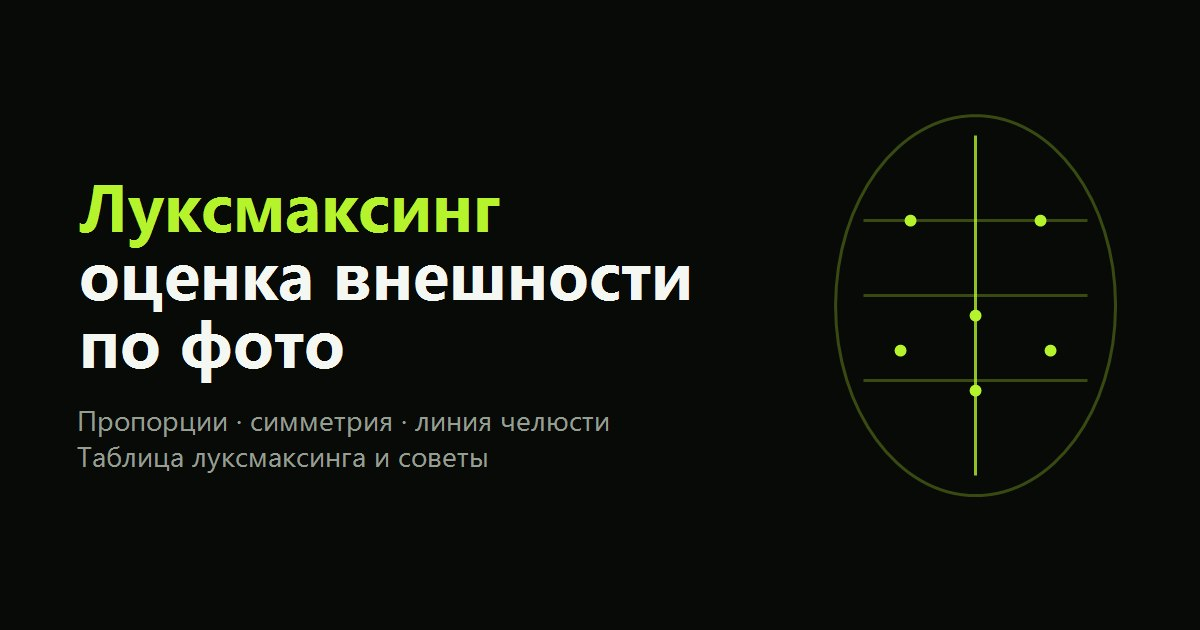
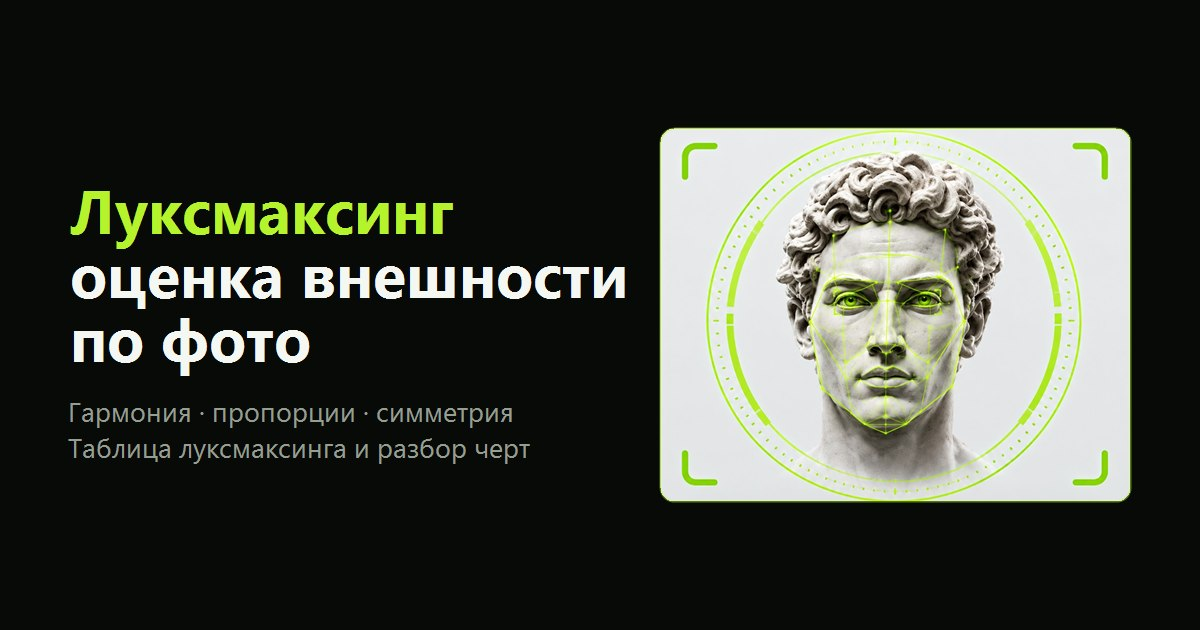
Персонаж в разборе и новая ссылка на бота
- античный бюст с сеткой вместо SVG-силуэта в демо-разборе
- удалены CSS-скобки, кольца и генератор сетки: они есть в картинке
- луч едет по top в процентах, картинка расцветает после скана
- OG-картинка пересобрана на том же персонаже
- CTA переведены на @LooksmaxScoreBot

Changed region(s): [[0.0617, 0.181, 0.9558, 0.8143], [0.0617, 0.2714, 0.4317, 0.3921]]

diff --git a/index.html b/index.html
@@ -23,7 +23,7 @@
 <link rel="preconnect" href="https://fonts.googleapis.com">
 <link rel="preconnect" href="https://fonts.gstatic.com" crossorigin>
 <link rel="stylesheet" href="https://fonts.googleapis.com/css2?family=IBM+Plex+Mono:wght@500;600&family=Manrope:wght@400;500;600;700;800&display=swap">
-<link rel="stylesheet" href="style.css?v=477428ff">
+<link rel="stylesheet" href="style.css?v=a276a9f6">
 <script src="app.js?v=7daabf76" defer></script>
 </head>
 <body>
@@ -42,7 +42,7 @@
       <a href="#plan">Что в разборе</a>
     </nav>
 
-    <a class="btn btn--lime btn--sm nav__cta" data-cta href="https://t.me/LooksTestBot" target="_blank" rel="sponsored noopener">Пройти оценку</a>
+    <a class="btn btn--lime btn--sm nav__cta" data-cta href="https://t.me/LooksmaxScoreBot" target="_blank" rel="sponsored noopener">Пройти оценку</a>
   </div>
   <p class="nav__caption">LooksTest — оценка внешности по фото от Vitrio</p>
 </header>
@@ -58,10 +58,10 @@
           Загрузите фото — и получите AI-скор с разбором по трём показателям: гармония лица,
           пропорции и симметрия. Плюс персональный план, что улучшить первым и какой шаг
           даст заметный результат быстрее всего.
-          <a data-cta href="https://t.me/LooksTestBot" target="_blank" rel="sponsored noopener">Попробуйте</a> — это занимает минуту.
+          <a data-cta href="https://t.me/LooksmaxScoreBot" target="_blank" rel="sponsored noopener">Попробуйте</a> — это занимает минуту.
         </p>
         <div class="hero__actions">
-          <a class="btn btn--lime" data-cta href="https://t.me/LooksTestBot" target="_blank" rel="sponsored noopener">Пройти оценку в Telegram</a>
+          <a class="btn btn--lime" data-cta href="https://t.me/LooksmaxScoreBot" target="_blank" rel="sponsored noopener">Пройти оценку в Telegram</a>
           <a class="btn btn--ghost" href="#tiers">Таблица луксмаксинга</a>
         </div>
       </div>
@@ -75,36 +75,14 @@
         <div class="scan" id="heroScan">
           <div class="scan__frame">
             <div class="scan__stage">
-              <span class="scan__corner" aria-hidden="true"></span>
-              <span class="scan__corner" aria-hidden="true"></span>
-              <span class="scan__corner" aria-hidden="true"></span>
-              <span class="scan__corner" aria-hidden="true"></span>
-
+              <!-- Персонаж и вся оптика — скобки, кольцо, сетка на лице —
+                   в самой картинке. CSS рисует только луч поверх неё. -->
+              <img class="scan__shot" src="img/scan-statue.jpg"
+                   alt="Разбор внешности: точки и сетка на лице античной статуи"
+                   width="900" height="715" fetchpriority="high" decoding="async">
+              <span class="scan__beam" aria-hidden="true"></span>
               <span class="scan__side scan__side--l" aria-hidden="true">Анализ черт лица</span>
               <span class="scan__side scan__side--r" aria-hidden="true">Сканирование пропорций</span>
-
-              <svg class="scan__rings" viewBox="0 0 200 200" aria-hidden="true">
-                <circle cx="100" cy="100" r="86"/>
-                <circle cx="100" cy="100" r="70"/>
-                <path d="M100 8v12M100 180v12M8 100h12M180 100h12"/>
-              </svg>
-
-              <span class="scan__face">
-              <svg viewBox="0 0 200 200" aria-hidden="true">
-                <path class="scan__outline" d="M100 26c26 0 44 19 44 46 0 13-2 25-6 36-6 17-20 34-38 34s-32-17-38-34c-4-11-6-23-6-36 0-27 18-46 44-46z"/>
-                <!-- Полигональная сетка: 61 точка-ориентир, триангуляция Боуэра-Ватсона,
-                     треугольники вне овала лица отброшены. Сгенерирована скриптом,
-                     руками такое не набрать. -->
-                <path class="scan__grid" d="M54.7 89.2L56 110.8M54.7 89.2L60.2 69M54.7 89.2L69.4 104.2M54.7 89.2L70.6 85.5M56 110.8L63.3 131M56 110.8L69.4 104.2M56 110.8L70 112M60.2 69L70.4 52.5M60.2 69L70.6 85.5M60.2 69L78.2 69.8M63.3 131L70 112M63.3 131L74.1 147.5M63.3 131L75.5 121.9M63.3 131L85.3 135.4M69.4 104.2L70 112M69.4 104.2L70.6 85.5M69.4 104.2L78 88M69.4 104.2L82 97M69.4 104.2L85.2 104.4M70 112L75.5 121.9M70 112L85.2 104.4M70.4 52.5L78.2 69.8M70.4 52.5L84.3 41.7M70.4 52.5L90.1 60M70.6 85.5L78 88M70.6 85.5L78.2 69.8M74.1 147.5L85.3 135.4M74.1 147.5L86.6 158.3M74.1 147.5L88 136M75.5 121.9L85.2 104.4M75.5 121.9L85.3 135.4M75.5 121.9L91.6 116.6M75.5 121.9L92 122M78 88L78.2 69.8M78 88L82 97M78 88L86.2 90.1M78 88L92 86M78 88L94.1 80.5M78.2 69.8L90.1 60M78.2 69.8L94.1 80.5M82 97L85.2 104.4M82 97L86.2 90.1M82 97L95 97M84.3 41.7L90.1 60M84.3 41.7L100 38M85.2 104.4L91.6 116.6M85.2 104.4L95 97M85.2 104.4L100 108M85.3 135.4L88 136M85.3 135.4L92 122M86.2 90.1L92 86M86.2 90.1L95 97M86.6 158.3L88 136M86.6 158.3L96.7 141.8M86.6 158.3L100 155M86.6 158.3L100 162M88 136L92 122M88 136L96.7 141.8M88 136L100 134M90.1 60L94.1 80.5M90.1 60L100 38M90.1 60L103.9 58.2M91.6 116.6L92 122M91.6 116.6L100 108M91.6 116.6L100 120M92 86L94.1 80.5M92 86L95 97M92 86L100 92M92 122L100 120M92 122L100 134M92 122L100.5 121.1M94.1 80.5L100 92M94.1 80.5L103.9 58.2M94.1 80.5L104.8 80M95 97L100 92M95 97L100 108M95 97L105 97M96.7 141.8L100 134M96.7 141.8L100 142M96.7 141.8L100 155M100 38L103.9 58.2M100 38L115.7 41.7M100 92L104.8 80M100 92L105 97M100 92L108 86M100 108L100 120M100 108L105 97M100 108L109.2 115.7M100 108L115.1 102.9M100 120L100.5 121.1M100 120L108 122M100 120L109.2 115.7M100 134L100 142M100 134L100.5 121.1M100 134L108 122M100 134L108.4 140M100 134L112 136M100 142L100 155M100 142L108.4 140M100 155L100 162M100 155L108.4 140M100 155L113.4 158.3M100 162L113.4 158.3M100.5 121.1L108 122M103.9 58.2L104.8 80M103.9 58.2L115.7 41.7M103.9 58.2L117 64.6M104.8 80L108 86M104.8 80L113.3 88.8M104.8 80L117 64.6M104.8 80L126.7 78.1M105 97L108 86M105 97L113.3 88.8M105 97L115.1 102.9M105 97L118 97M108 86L113.3 88.8M108 122L109.2 115.7M108 122L112 136M108 122L119.3 130.2M108.4 140L112 136M108.4 140L113.4 158.3M108.4 140L125.9 147.5M109.2 115.7L115.1 102.9M109.2 115.7L119.3 130.2M109.2 115.7L127.8 114.5M112 136L119.3 130.2M112 136L125.9 147.5M113.3 88.8L118 97M113.3 88.8L122 88M113.3 88.8L126.7 78.1M113.4 158.3L125.9 147.5M115.1 102.9L118 97M115.1 102.9L127.8 114.5M115.1 102.9L130 112M115.7 41.7L117 64.6M115.7 41.7L129.6 52.5M117 64.6L126.7 78.1M117 64.6L129.6 52.5M117 64.6L139.8 69M118 97L122 88M118 97L130 112M118 97L131.1 95.8M119.3 130.2L125.9 147.5M119.3 130.2L127.8 114.5M119.3 130.2L136.7 131M122 88L126.7 78.1M122 88L131.1 95.8M125.9 147.5L136.7 131M126.7 78.1L131.1 95.8M126.7 78.1L139.8 69M126.7 78.1L145.3 89.2M127.8 114.5L130 112M127.8 114.5L136.7 131M129.6 52.5L139.8 69M130 112L131.1 95.8M130 112L136.7 131M130 112L144 110.8M131.1 95.8L144 110.8M131.1 95.8L145.3 89.2M136.7 131L144 110.8M139.8 69L145.3 89.2M144 110.8L145.3 89.2"/>
-                <g class="scan__mesh">
-                  <path d="M100 30v132M62 78h76M60 100h80M66 122h68"/>
-                  <path d="M76 88c6-6 16-6 22 0M102 88c6-6 16-6 22 0"/>
-                  <path d="M84 134c10 6 22 6 32 0"/>
-                </g>
-                <g class="scan__dot"><circle cx="100" cy="38" r="1.7"/><circle cx="115.7" cy="41.7" r="1.7"/><circle cx="129.6" cy="52.5" r="1.7"/><circle cx="139.8" cy="69" r="1.7"/><circle cx="145.3" cy="89.2" r="1.7"/><circle cx="144" cy="110.8" r="1.7"/><circle cx="136.7" cy="131" r="1.7"/><circle cx="125.9" cy="147.5" r="1.7"/><circle cx="113.4" cy="158.3" r="1.7"/><circle cx="100" cy="162" r="1.7"/><circle cx="86.6" cy="158.3" r="1.7"/><circle cx="74.1" cy="147.5" r="1.7"/><circle cx="63.3" cy="131" r="1.7"/><circle cx="56" cy="110.8" r="1.7"/><circle cx="54.7" cy="89.2" r="1.7"/><circle cx="60.2" cy="69" r="1.7"/><circle cx="70.4" cy="52.5" r="1.7"/><circle cx="84.3" cy="41.7" r="1.7"/><circle cx="103.9" cy="58.2" r="1.7"/><circle cx="117" cy="64.6" r="1.7"/><circle cx="126.7" cy="78.1" r="1.7"/><circle cx="131.1" cy="95.8" r="1.7"/><circle cx="127.8" cy="114.5" r="1.7"/><circle cx="119.3" cy="130.2" r="1.7"/><circle cx="108.4" cy="140" r="1.7"/><circle cx="96.7" cy="141.8" r="1.7"/><circle cx="85.3" cy="135.4" r="1.7"/><circle cx="75.5" cy="121.9" r="1.7"/><circle cx="69.4" cy="104.2" r="1.7"/><circle cx="70.6" cy="85.5" r="1.7"/><circle cx="78.2" cy="69.8" r="1.7"/><circle cx="90.1" cy="60" r="1.7"/><circle cx="104.8" cy="80" r="1.7"/><circle cx="113.3" cy="88.8" r="1.7"/><circle cx="115.1" cy="102.9" r="1.7"/><circle cx="109.2" cy="115.7" r="1.7"/><circle cx="100.5" cy="121.1" r="1.7"/><circle cx="91.6" cy="116.6" r="1.7"/><circle cx="85.2" cy="104.4" r="1.7"/><circle cx="86.2" cy="90.1" r="1.7"/><circle cx="94.1" cy="80.5" r="1.7"/><circle cx="78" cy="88" r="1.7"/><circle cx="92" cy="86" r="1.7"/><circle cx="108" cy="86" r="1.7"/><circle cx="122" cy="88" r="1.7"/><circle cx="82" cy="97" r="1.7"/><circle cx="95" cy="97" r="1.7"/><circle cx="105" cy="97" r="1.7"/><circle cx="118" cy="97" r="1.7"/><circle cx="100" cy="92" r="1.7"/><circle cx="100" cy="108" r="1.7"/><circle cx="100" cy="120" r="1.7"/><circle cx="92" cy="122" r="1.7"/><circle cx="108" cy="122" r="1.7"/><circle cx="88" cy="136" r="1.7"/><circle cx="100" cy="134" r="1.7"/><circle cx="112" cy="136" r="1.7"/><circle cx="100" cy="142" r="1.7"/><circle cx="70" cy="112" r="1.7"/><circle cx="130" cy="112" r="1.7"/><circle cx="100" cy="155" r="1.7"/></g>
-              </svg>
-                <span class="scan__beam" aria-hidden="true"></span>
-              </span>
             </div>
 
             <div class="scan__head">
@@ -192,7 +170,7 @@
       </ol>
 
       <div class="why__cta">
-        <a class="btn btn--lime" data-cta href="https://t.me/LooksTestBot" target="_blank" rel="sponsored noopener">Пройти оценку в Telegram</a>
+        <a class="btn btn--lime" data-cta href="https://t.me/LooksmaxScoreBot" target="_blank" rel="sponsored noopener">Пройти оценку в Telegram</a>
       </div>
     </div>
   </section>
@@ -391,7 +369,7 @@
         </ul>
 
         <div class="report__foot">
-          <a class="btn btn--lime" data-cta href="https://t.me/LooksTestBot" target="_blank" rel="sponsored noopener">Узнать свой балл</a>
+          <a class="btn btn--lime" data-cta href="https://t.me/LooksmaxScoreBot" target="_blank" rel="sponsored noopener">Узнать свой балл</a>
         </div>
       </div>
     </div>
@@ -586,7 +564,7 @@
     <div>
       <h4>Документы и поддержка</h4>
       <ul>
-        <li><a href="https://t.me/LooksTestBot" target="_blank" rel="sponsored noopener">Открыть бот</a></li>
+        <li><a href="https://t.me/LooksmaxScoreBot" target="_blank" rel="sponsored noopener">Открыть бот</a></li>
         <li><a href="https://studio.vitrio.space/support" rel="nofollow noopener" target="_blank">Поддержка</a></li>
         <li><a href="https://vitrio.space/offer" rel="nofollow noopener" target="_blank">Публичная оферта</a></li>
         <li><a href="https://vitrio.space/agreement" rel="nofollow noopener" target="_blank">Пользовательское соглашение</a></li>

diff --git a/style.css b/style.css
@@ -443,19 +443,6 @@ p{margin:0;}
 }
 .scan.is-done .scan__frame{border-color:var(--lime-line);box-shadow:0 0 0 1px var(--lime-tint),0 24px 60px -30px rgba(181,244,45,.5);}
 
-.scan__face{position:relative;display:block;width:100%;height:auto;aspect-ratio:1/1;max-width:210px;margin:0 auto;}
-.scan__face svg{display:block;width:100%;height:auto;}
-.scan__outline{fill:none;stroke:var(--line-strong);stroke-width:1.6;}
-.scan__mesh{fill:none;stroke:rgba(181,244,45,.28);stroke-width:1;opacity:0;transition:opacity .5s var(--ease);}
-.scan.is-running .scan__mesh,.scan.is-done .scan__mesh{opacity:1;}
-.scan__dot{fill:var(--lime);opacity:0;transition:opacity .4s var(--ease);}
-.scan__dot circle{r:1.7;}
-.scan.is-done .scan__dot{opacity:1;}
-/* полигональная сетка: тоньше и бледнее опорных линий, иначе спорит с ними */
-.scan__grid{fill:none;stroke:rgba(181,244,45,.22);stroke-width:.7;opacity:0;transition:opacity .6s var(--ease);}
-.scan.is-running .scan__grid,.scan.is-done .scan__grid{opacity:1;}
-.scan.is-done .scan__dot{opacity:1;}
-
 /* сканирующая линия — единственное движение на странице */
 .scan__beam{
   position:absolute;left:0;right:0;height:2px;top:0;
@@ -516,7 +503,6 @@ p{margin:0;}
     100% {opacity:0;}
   }
   .scan__fill{transition:width .85s var(--ease) !important;}
-  .scan__mesh,.scan__dot,.scan__grid{transition:opacity .5s var(--ease) !important;}
 }
 
 /* ============================================================
@@ -612,14 +598,6 @@ p{margin:0;}
 }
 .scan.is-done .scan__stage{border-color:var(--lime-line);box-shadow:inset 0 0 40px -14px rgba(181,244,45,.35);}
 
-/* скобки по углам */
-.scan__corner{position:absolute;width:17px;height:17px;border:2px solid var(--lime);opacity:.5;transition:opacity .4s var(--ease);}
-.scan__corner:nth-of-type(1){top:11px;left:11px;border-right:0;border-bottom:0;border-radius:6px 0 0 0;}
-.scan__corner:nth-of-type(2){top:11px;right:11px;border-left:0;border-bottom:0;border-radius:0 6px 0 0;}
-.scan__corner:nth-of-type(3){bottom:11px;left:11px;border-right:0;border-top:0;border-radius:0 0 0 6px;}
-.scan__corner:nth-of-type(4){bottom:11px;right:11px;border-left:0;border-top:0;border-radius:0 0 6px 0;}
-.scan.is-running .scan__corner,.scan.is-done .scan__corner{opacity:1;}
-
 /* боковые подписи */
 /* Разведены по противоположным углам: на узкой карточке в одну строку
    они налезают друг на друга. */
@@ -632,18 +610,6 @@ p{margin:0;}
 .scan__side--l{top:15px;left:34px;}
 .scan__side--r{bottom:15px;right:34px;}
 .scan.is-done .scan__side{color:var(--lime-deep);}
-
-/* концентрические кольца за лицом */
-.scan__rings{
-  position:absolute;left:50%;top:50%;transform:translate(-50%,-50%);
-  width:100%;max-width:290px;height:auto;
-  fill:none;stroke:var(--line);stroke-width:1;
-  opacity:.7;pointer-events:none;
-}
-.scan.is-done .scan__rings{stroke:var(--lime-line);}
-.scan__rings circle:last-of-type{stroke-dasharray:3 7;}
-
-.scan__face{position:relative;z-index:1;}
 
 /* бейдж уровня — связывает карточку с тир-листом ниже по странице */
 .scan__badge{
@@ -681,7 +647,6 @@ p{margin:0;}
 }
 @media(prefers-reduced-motion:reduce){
   .scan__badge{transition:opacity .45s var(--ease) !important;transform:none !important;}
-  .scan__corner,.scan__side,.scan__rings{transition:none !important;}
 }
 
 
@@ -929,3 +894,78 @@ p{margin:0;}
 .step__body{display:flex;flex-direction:column;flex:1;}
 .step__body p{margin-bottom:0;}
 .step__meta{margin-top:auto;padding-top:13px;}
+
+
+/* ------------------------------------------------------------
+   Сцена с персонажем.
+   Скобки видоискателя, кольцо и полигональная сетка на лице
+   нарисованы прямо в картинке — CSS их больше не дублирует,
+   иначе двоилось бы. Остаётся только луч поверх.
+   ------------------------------------------------------------ */
+.scan__stage{
+  position:relative;
+  border-radius:var(--r-card);
+  overflow:hidden;
+  border:1px solid var(--line);
+  background:#eceeed;
+  transition:box-shadow .5s var(--ease),border-color .5s var(--ease);
+}
+.scan.is-done .scan__stage{
+  border-color:var(--lime-line);
+  box-shadow:0 0 0 1px var(--lime-tint), 0 20px 50px -28px rgba(181,244,45,.55);
+}
+
+/* height:auto обязателен: HTML-атрибут height иначе задаёт
+   фиксированную высоту и перебивает пропорции */
+.scan__shot{
+  display:block;
+  width:100%;height:auto;
+  aspect-ratio:900/715;
+  object-fit:cover;
+  filter:saturate(.62) brightness(.97);
+  transition:filter .7s var(--ease);
+}
+.scan.is-running .scan__shot,.scan.is-done .scan__shot{filter:none;}
+
+/* луч едет по всей высоте картинки */
+.scan__beam{
+  position:absolute;left:0;right:0;top:0;height:2px;
+  background:linear-gradient(90deg,transparent,var(--lime),transparent);
+  box-shadow:0 0 26px 5px rgba(181,244,45,.5);
+  opacity:0;z-index:2;
+}
+.scan.is-running .scan__beam{animation:scan-beam 1.9s var(--ease) both;}
+/* едем по top в процентах: высота плашки зависит от ширины экрана,
+   в пикселях пришлось бы считать её скриптом */
+@keyframes scan-beam{
+  0%   {opacity:0;top:0;}
+  12%  {opacity:1;}
+  88%  {opacity:1;}
+  100% {opacity:0;top:calc(100% - 2px);}
+}
+
+/* подписи лежат на светлой плашке, поэтому тёмные, а не dim */
+.scan__side{
+  position:absolute;z-index:3;
+  font-size:8.5px;letter-spacing:.13em;text-transform:uppercase;
+  color:rgba(20,26,18,.5);white-space:nowrap;
+  transition:color .4s var(--ease);
+}
+.scan__side--l{top:12px;left:14px;}
+.scan__side--r{bottom:12px;right:14px;}
+.scan.is-done .scan__side{color:var(--lime-deep);}
+
+@media(max-width:600px){
+  .scan__side{font-size:7.5px;letter-spacing:.08em;}
+  .scan__side--l{left:11px;top:10px;}
+  .scan__side--r{right:11px;bottom:10px;}
+}
+@media(prefers-reduced-motion:reduce){
+  .scan__beam{top:50%;}
+  .scan.is-running .scan__beam{
+    animation:scan-pulse 1.3s var(--ease) both !important;
+    animation-duration:1.3s !important;
+  }
+  @keyframes scan-pulse{0%{opacity:0;}30%{opacity:1;}100%{opacity:0;}}
+  .scan__shot{transition:filter .7s var(--ease) !important;}
+}

diff --git a/README.md b/README.md
@@ -227,3 +227,32 @@ sed -i 's|lookstest.ru|НОВЫЙ.ru|g' index.html robots.txt sitemap.xml CNAME
 абзацем, а абзацы разной длины. Решается `display:flex; flex-direction:
 column` на карточке и `margin-top:auto` на плашке. Проверять замером
 `getBoundingClientRect().top` — разброс внутри строки должен быть 0.
+
+## Персонаж в разборе (07.09.2026)
+
+В демо-разборе вместо SVG-силуэта стоит античный бюст из фирменного набора
+(`img/scan-statue.jpg`). Скобки видоискателя, кольцо со шкалой и полигональная
+сетка на лице нарисованы **внутри картинки**, поэтому одноимённые CSS-элементы
+(`.scan__corner`, `.scan__rings`, `.scan__face`, `.scan__mesh`, `.scan__dot`,
+`.scan__grid`) и генератор `tools_mesh.py` удалены — иначе всё двоилось бы.
+
+Из динамики остался луч: он едет поверх картинки. Анимируется `top` в
+процентах, а не `transform` в пикселях — высота плашки зависит от ширины
+экрана, в пикселях её пришлось бы считать скриптом.
+
+Картинка в покое приглушена (`filter:saturate(.62) brightness(.97)`), на время
+скана и после него — в полном цвете. Это даёт разницу «до/после» даже там, где
+движение отключено системно.
+
+`height:auto` на `.scan__shot` обязателен: HTML-атрибут `height="715"` иначе
+задаёт фиксированную высоту и перебивает `aspect-ratio`.
+
+Источник: `ChatGPT Image 7 сент. 2026 г., 23_20_13.png` из Загрузок, взята
+верхняя часть карточки (кроп 1072×852 от точки 92,72), уменьшена до 900 px
+и сохранена в JPEG q92 — 126 КБ вместо 1,6 МБ PNG.
+
+OG-картинка пересобрана на том же персонаже.
+
+## Бот
+
+Ссылка во всех CTA: `https://t.me/LooksmaxScoreBot` (6 мест).
